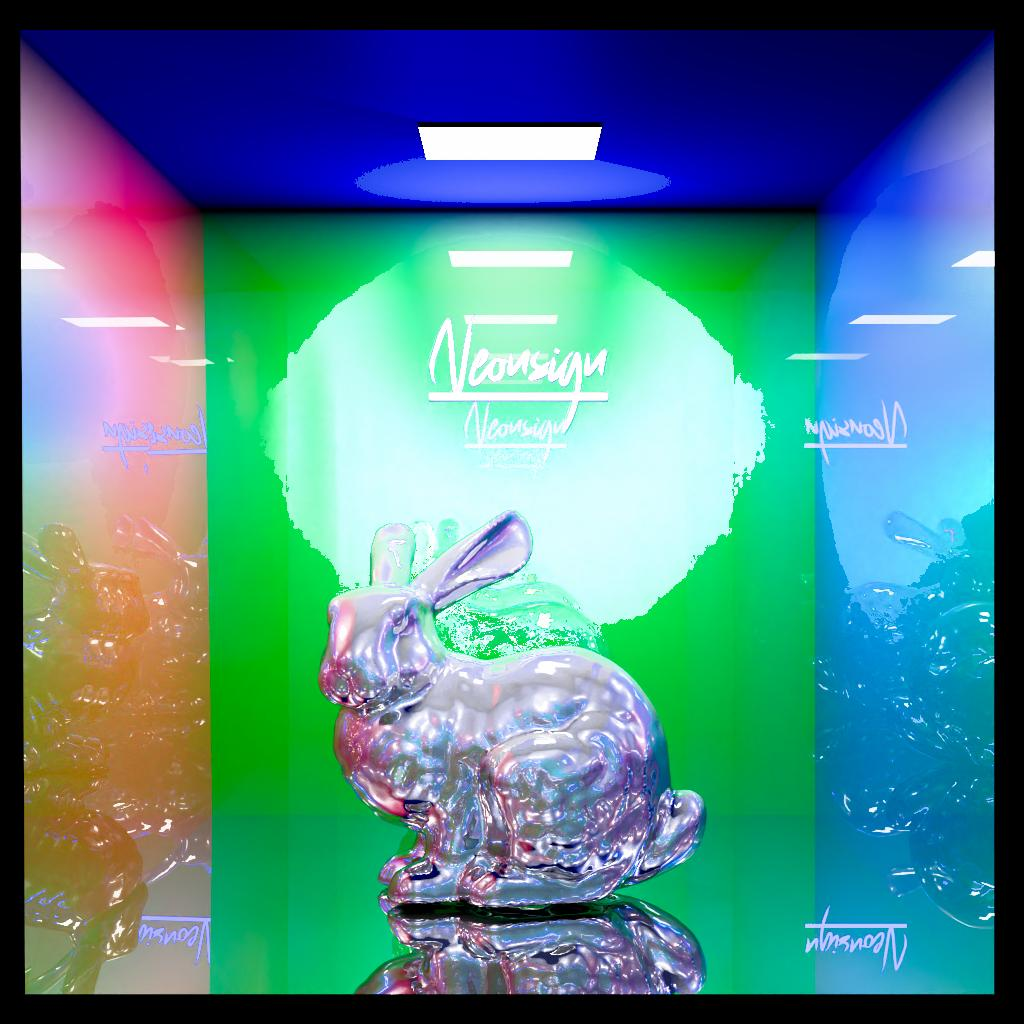
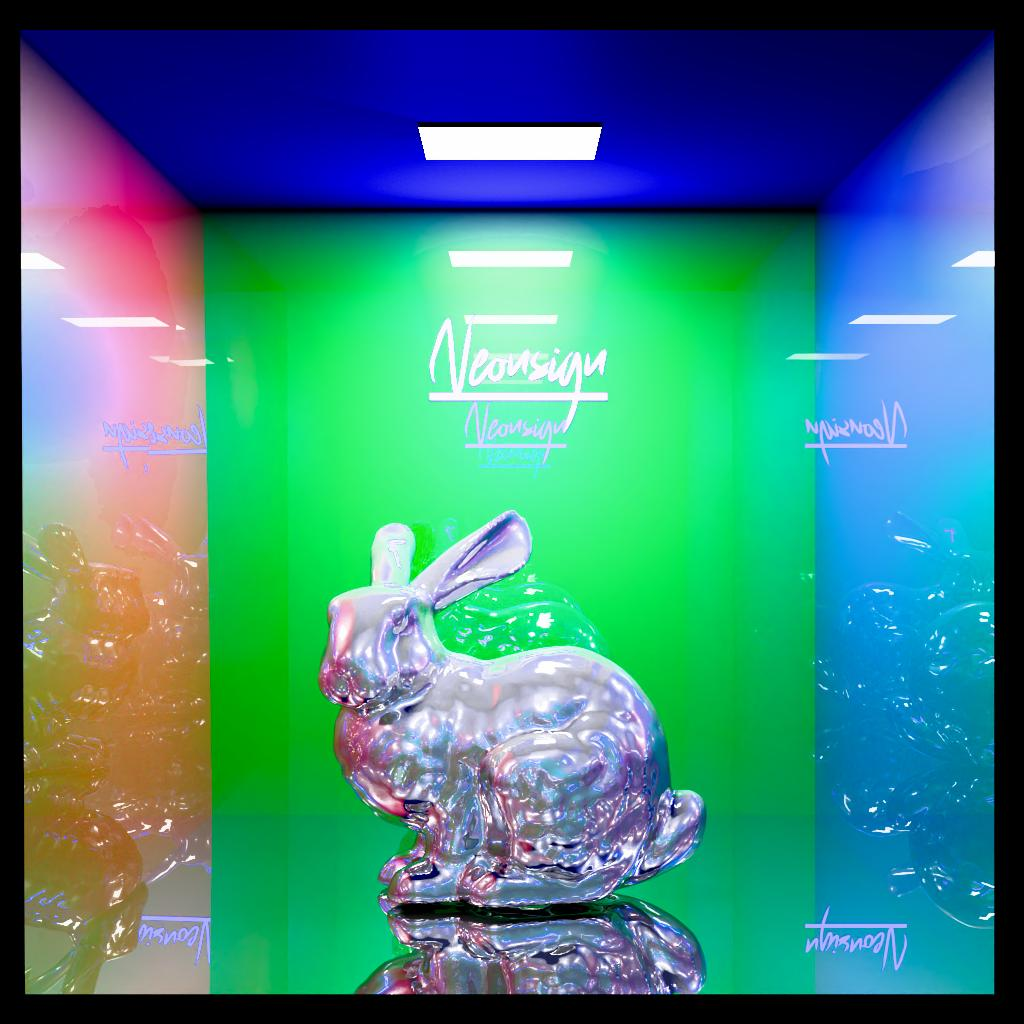
hw06: fix khronos negative values

diff --git a/src/settings.py b/src/settings.py
@@ -6,7 +6,7 @@ _DEFAULTS = {
     "DEVICE": "gpu",
     "CPU_DIMENSION": 500,
     "GPU_DIMENSION": 1024,
-    "SCENE_NAME": "dragon",
+    "SCENE_NAME": "box-advanced",
     "SAMPLES": 16,
     "MAX_BOUNCES": 16,
     "DENOISE": True,
@@ -20,9 +20,7 @@ _DEFAULTS = {
     # - "hill": Stephen Hill ACES approximation (CPU path)
     # - "none": bypass tonemap and clip to [0, 1]
     # - "magenta": debug overshoot visualizer
-    "TONEMAPPER": "custom",
-    # "TONEMAPPER": "narkowicz",
-    # "TONEMAPPER": "none",
+    "TONEMAPPER": "khronos",
     "IMG_FORMAT": "jpg",
     "USE_BVH_CACHE": True,
     "PRINT_STATS": False,

diff --git a/src/constants.py b/src/constants.py
@@ -8,7 +8,7 @@ from numpy import float32, uint8, random
 DET_EPSILON = float32(1e-9)
 # used for t-distance checks and shadow ray origin offsets (scene-scale tolerance)
 RAY_EPSILON = float32(1e-5)
-DIST_TO_LIGHT_MULT = float32(1e-3)  # t max safeguard for shadow rays
+DIST_TO_LIGHT_MULT = float32(1e-4)  # t max safeguard for shadow rays
 
 BARYCENTRIC_EPSILON = float32(1e-7)  # acounts with float32 precision error
 DENOMINATOR_EPSILON = float32(1e-10)  # division by zero and its check statements

diff --git a/src/framebuffer.py b/src/framebuffer.py
@@ -113,6 +113,10 @@ else:
 @khronos_tonemap
 def khronos_pbr_neutral_tonemapper(r, g, b):
     """Leaves values below 0.8 mostly unchanged"""
+    # avoid negative values from out-of-gamut CSC by clamping to zero
+    r = max(float32(0.0), r)
+    g = max(float32(0.0), g)
+    b = max(float32(0.0), b)
     # constants defined by the khronos spec
     start_compression = float32(0.8) - float32(0.04)
     desaturation = float32(0.15)

diff --git a/tests/render_tonemappers.py b/tests/render_tonemappers.py
@@ -20,7 +20,7 @@ import tempfile
 PROJECT = "/home/bubakulus/work/mata/prog/pg1"
 OUT_DIR = os.path.join(PROJECT, "src", "output", "hw06")
 SRC_OUT = os.path.join(PROJECT, "src", "output")
-CONDA = "/home/bubakulus/miniforge3/bin/conda run -n raytracer"
+CONDA = "/home/bubakulus/miniforge3/bin/conda run -n raytracer" # FIXME: hardcoded path to conda env
 
 MAPPERS = [
     ("custom", "custom.jpg"),
